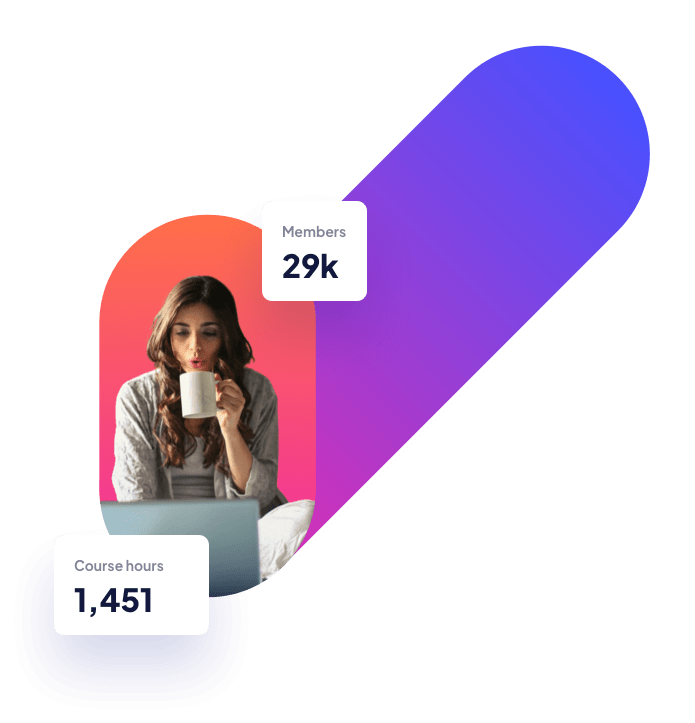
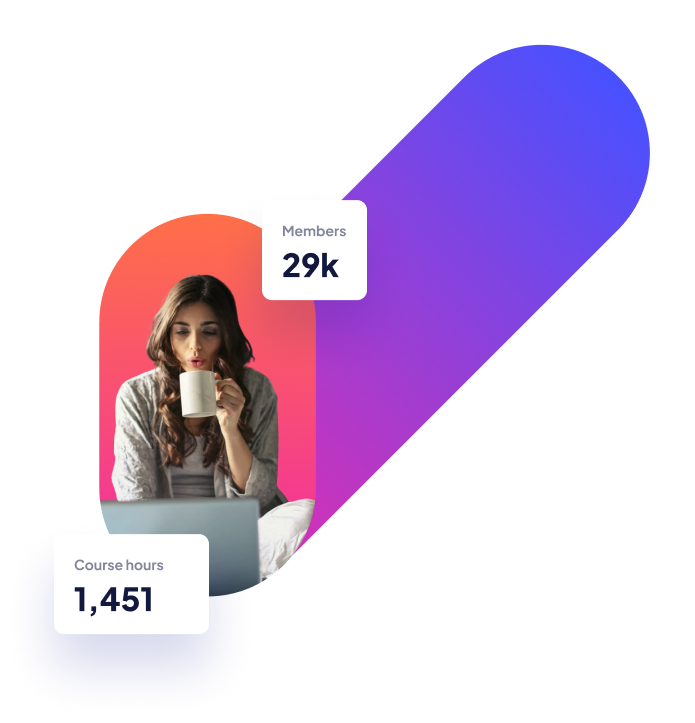
responsive tablet view

diff --git a/assets/styles/styles.css b/assets/styles/styles.css
@@ -10,7 +10,6 @@
 body {
   font-family: "Plus Jakarta Sans", sans-serif;
   width: 100%;
-  overflow-x: hidden;
 }
 body header {
   padding: 16px 16px 70px;
@@ -31,8 +30,9 @@ body main {
   width: 100%;
 }
 body main .box {
+  position: relative;
+  z-index: 1;
   padding: 56px 29px 32px 28px;
-  background-color: white;
   border-radius: 10px;
   box-shadow: 0px 25px 50px 0px rgba(6, 22, 141, 0.04);
   width: 100%;
@@ -86,6 +86,11 @@ body p {
   color: #83869A;
 }
 
+@media only screen and (min-width: 768px) {
+  body header {
+    padding: 24px 40px 186px 39px;
+  }
+}
 body header .header__image {
   margin: 0 8px;
   background: url("../images/image-hero-mobile.png") no-repeat center/cover;
@@ -136,12 +141,92 @@ body header .header__content .button--header:hover::before {
   opacity: 1;
 }
 
+@media only screen and (min-width: 768px) {
+  body header {
+    display: grid;
+    grid-template-areas: "nav nav" "content image";
+    grid-template-columns: 52% 48%;
+    grid-template-rows: 1fr auto;
+    padding: 24px 40px 186px 39px;
+    position: relative;
+  }
+  body header nav {
+    grid-area: nav;
+    grid-column: 1/3;
+  }
+  body header .header__image {
+    grid-area: image;
+    grid-row: 1/3;
+  }
+  body header .header__content {
+    grid-area: content;
+  }
+  body header .header__image {
+    background: url("../images/image-hero-tablet.png") no-repeat center/cover;
+    background-size: 100%;
+    position: absolute;
+    z-index: 2;
+    margin: unset;
+    width: 100%;
+    height: 100%;
+  }
+}
 body main .box--gradient {
   background-image: linear-gradient(to bottom, #FF6F48, #F02AA6);
   padding: 24px 29px 32px 28px;
 }
 body main .box p {
   padding: 16px 0 24px;
+}
+body main .box--animation::after {
+  content: "";
+  background: url("../images/icon-animation.svg") no-repeat center/cover;
+  position: absolute;
+  z-index: 2;
+  top: -24px;
+  right: 260px;
+  width: 56px;
+  height: 56px;
+}
+body main .box--design::after {
+  content: "";
+  background: url("../images/icon-design.svg") no-repeat center/cover;
+  position: absolute;
+  z-index: 2;
+  top: -24px;
+  right: 260px;
+  width: 56px;
+  height: 56px;
+}
+body main .box--photography::after {
+  content: "";
+  background: url("../images/icon-photography.svg") no-repeat center/cover;
+  position: absolute;
+  z-index: 2;
+  top: -24px;
+  right: 260px;
+  width: 56px;
+  height: 56px;
+}
+body main .box--crypto::after {
+  content: "";
+  background: url("../images/icon-crypto.svg") no-repeat center/cover;
+  position: absolute;
+  z-index: 2;
+  top: -24px;
+  right: 260px;
+  width: 56px;
+  height: 56px;
+}
+body main .box--business::after {
+  content: "";
+  background: url("../images/icon-business.svg") no-repeat center/cover;
+  position: absolute;
+  z-index: 2;
+  top: -24px;
+  right: 260px;
+  width: 56px;
+  height: 56px;
 }
 
 body footer nav {

diff --git a/index.html b/index.html
@@ -39,32 +39,32 @@
       <h2>Check out our most popular courses!</h2>
     </section>
 
-    <section class="box">
+    <section class="box box--animation">
       <h3>Animation</h3>
       <p>Learn the latest animation techniques to create stunning motion design and captivate your audience.</p>
       <a href="#">Get Started</a>
     </section>
 
-    <section class="box">
+    <section class="box box--design">
       <h3>Design</h3>
       <p>Create beautiful, usable interfaces to help shape the future of how the web looks.</p>
       <a href="#">Get Started</a>
     </section>
 
-    <section class="box">
+    <section class="box box--photography">
       <h3>Photography</h3>
       <p>Explore critical fundamentals like lighting, composition, and focus to capture exceptional photos.</p>
       <a href="#">Get Started</a>
     </section>
 
-    <section class="box">
+    <section class="box box--crypto">
       <h3>Crypto</h3>
       <p>All you need to know to get started investing in crypto. Go from beginner to advanced with this 54 hour course.
       </p>
       <a href="#">Get Started</a>
     </section>
 
-    <section class="box">
+    <section class="box box--business">
       <h3>Business</h3>
       <p>A step-by-step playbook to help you start, scale, and sustain your business without outside investment.</p>
       <a href="#">Get Started</a>

diff --git a/assets/styles/components/_header.scss b/assets/styles/components/_header.scss
@@ -2,7 +2,6 @@
 
 body {
   header {
-
     .header__image {
       margin: 0 8px;
       @include background("../images/image-hero-mobile.png");
@@ -44,6 +43,44 @@ body {
         &:hover::before {
           opacity: 1;
         }
+      }
+    }
+  }
+}
+
+@include responsive ("tablet") {
+  body {
+    header {
+      display: grid;
+      grid-template-areas:
+        "nav nav"
+        "content image";
+      grid-template-columns: 52% 48%;
+      grid-template-rows: 1fr auto;
+      padding: 24px 40px 186px 39px;
+      position: relative;
+
+      nav {
+        grid-area: nav;
+        grid-column: 1/3;
+
+      }
+
+      .header__image {
+        grid-area: image;
+        grid-row: 1/3;
+      }
+
+      .header__content {
+        grid-area: content;
+      }
+
+      .header__image {
+        @include background("../images/image-hero-tablet.png", $size: 100%);
+        @include position(absolute, 2);
+        margin: unset;
+        width: 100%;
+        height: 100%;
       }
     }
   }

diff --git a/assets/styles/global/_root.scss b/assets/styles/global/_root.scss
@@ -12,7 +12,7 @@ $gradient-dark: linear-gradient(to bottom, #4851FF, #F02AA6);
 
 $breakpoints: (
   "desktop": px,
-  "tablet": px,
+  "tablet": 768px,
 );
 
 @mixin mobile-heading-large {
@@ -54,13 +54,21 @@ $breakpoints: (
 }
 
 @mixin box($padding) {
+  @include position(relative, 1);
   padding: $padding;
-  background-color: white;
   border-radius: 10px;
   box-shadow: 0px 25px 50px 0px rgba(6, 22, 141, 0.04);
   width: 100%;
   max-width: 350px;
   max-height: 322px;
+}
+
+@mixin box-images ($url) {
+  content: "";
+  @include background($url);
+  @include position(absolute, 2, -24px, 260px);
+  width: 56px;
+  height: 56px;
 }
 
 @mixin button-default {

diff --git a/assets/styles/components/_main.scss b/assets/styles/components/_main.scss
@@ -12,5 +12,25 @@ body {
         padding: 16px 0 24px;
       }
     }
+
+    .box--animation::after {
+      @include box-images("../images/icon-animation.svg");
+    }
+
+    .box--design::after {
+      @include box-images("../images/icon-design.svg");
+    }
+
+    .box--photography::after {
+      @include box-images("../images/icon-photography.svg");
+    }
+
+    .box--crypto::after {
+      @include box-images("../images/icon-crypto.svg");
+    }
+
+    .box--business::after {
+      @include box-images("../images/icon-business.svg");
+    }
   }
 }

diff --git a/assets/styles/global/_global.scss b/assets/styles/global/_global.scss
@@ -7,7 +7,7 @@
 body {
   font-family: $font;
   width: 100%;
-  overflow-x: hidden;
+  // overflow-x: hidden;
 
   header {
     padding: 16px 16px 70px;
@@ -64,5 +64,12 @@ body {
   p {
     @include mobile-body();
   }
+}
 
+@include responsive ("tablet") {
+  body {
+    header {
+      padding: 24px 40px 186px 39px;
+    }
+  }
 }
